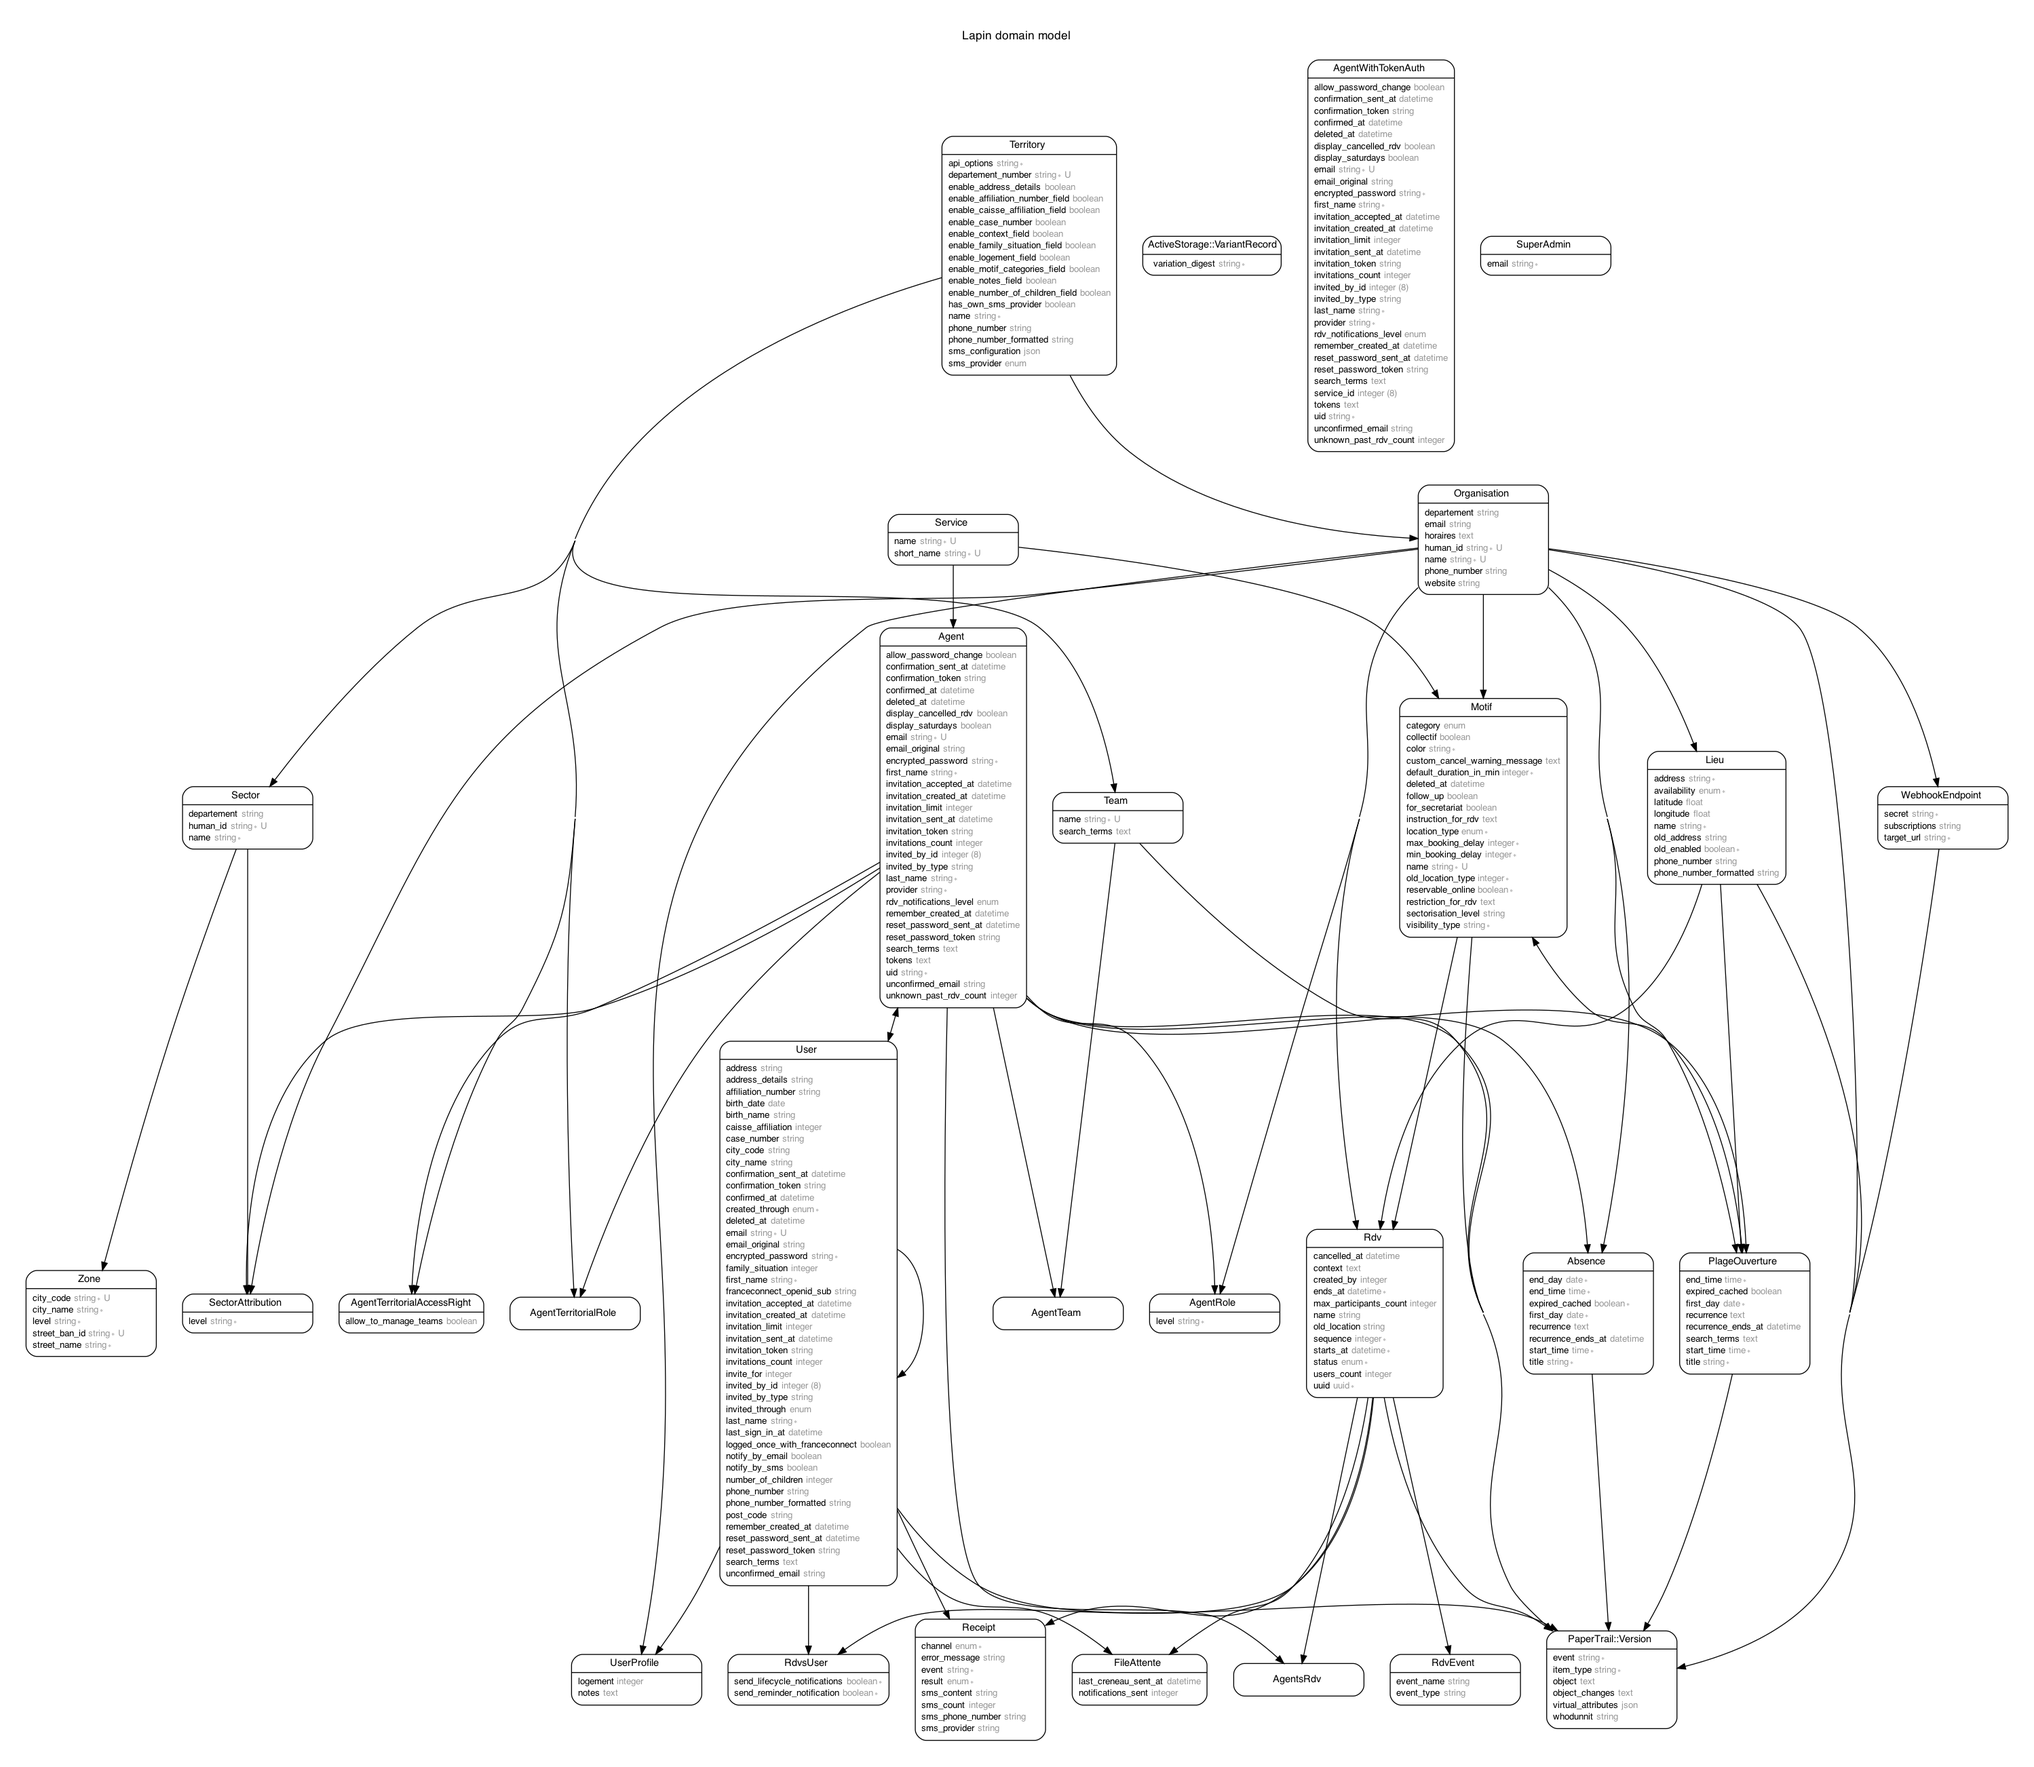
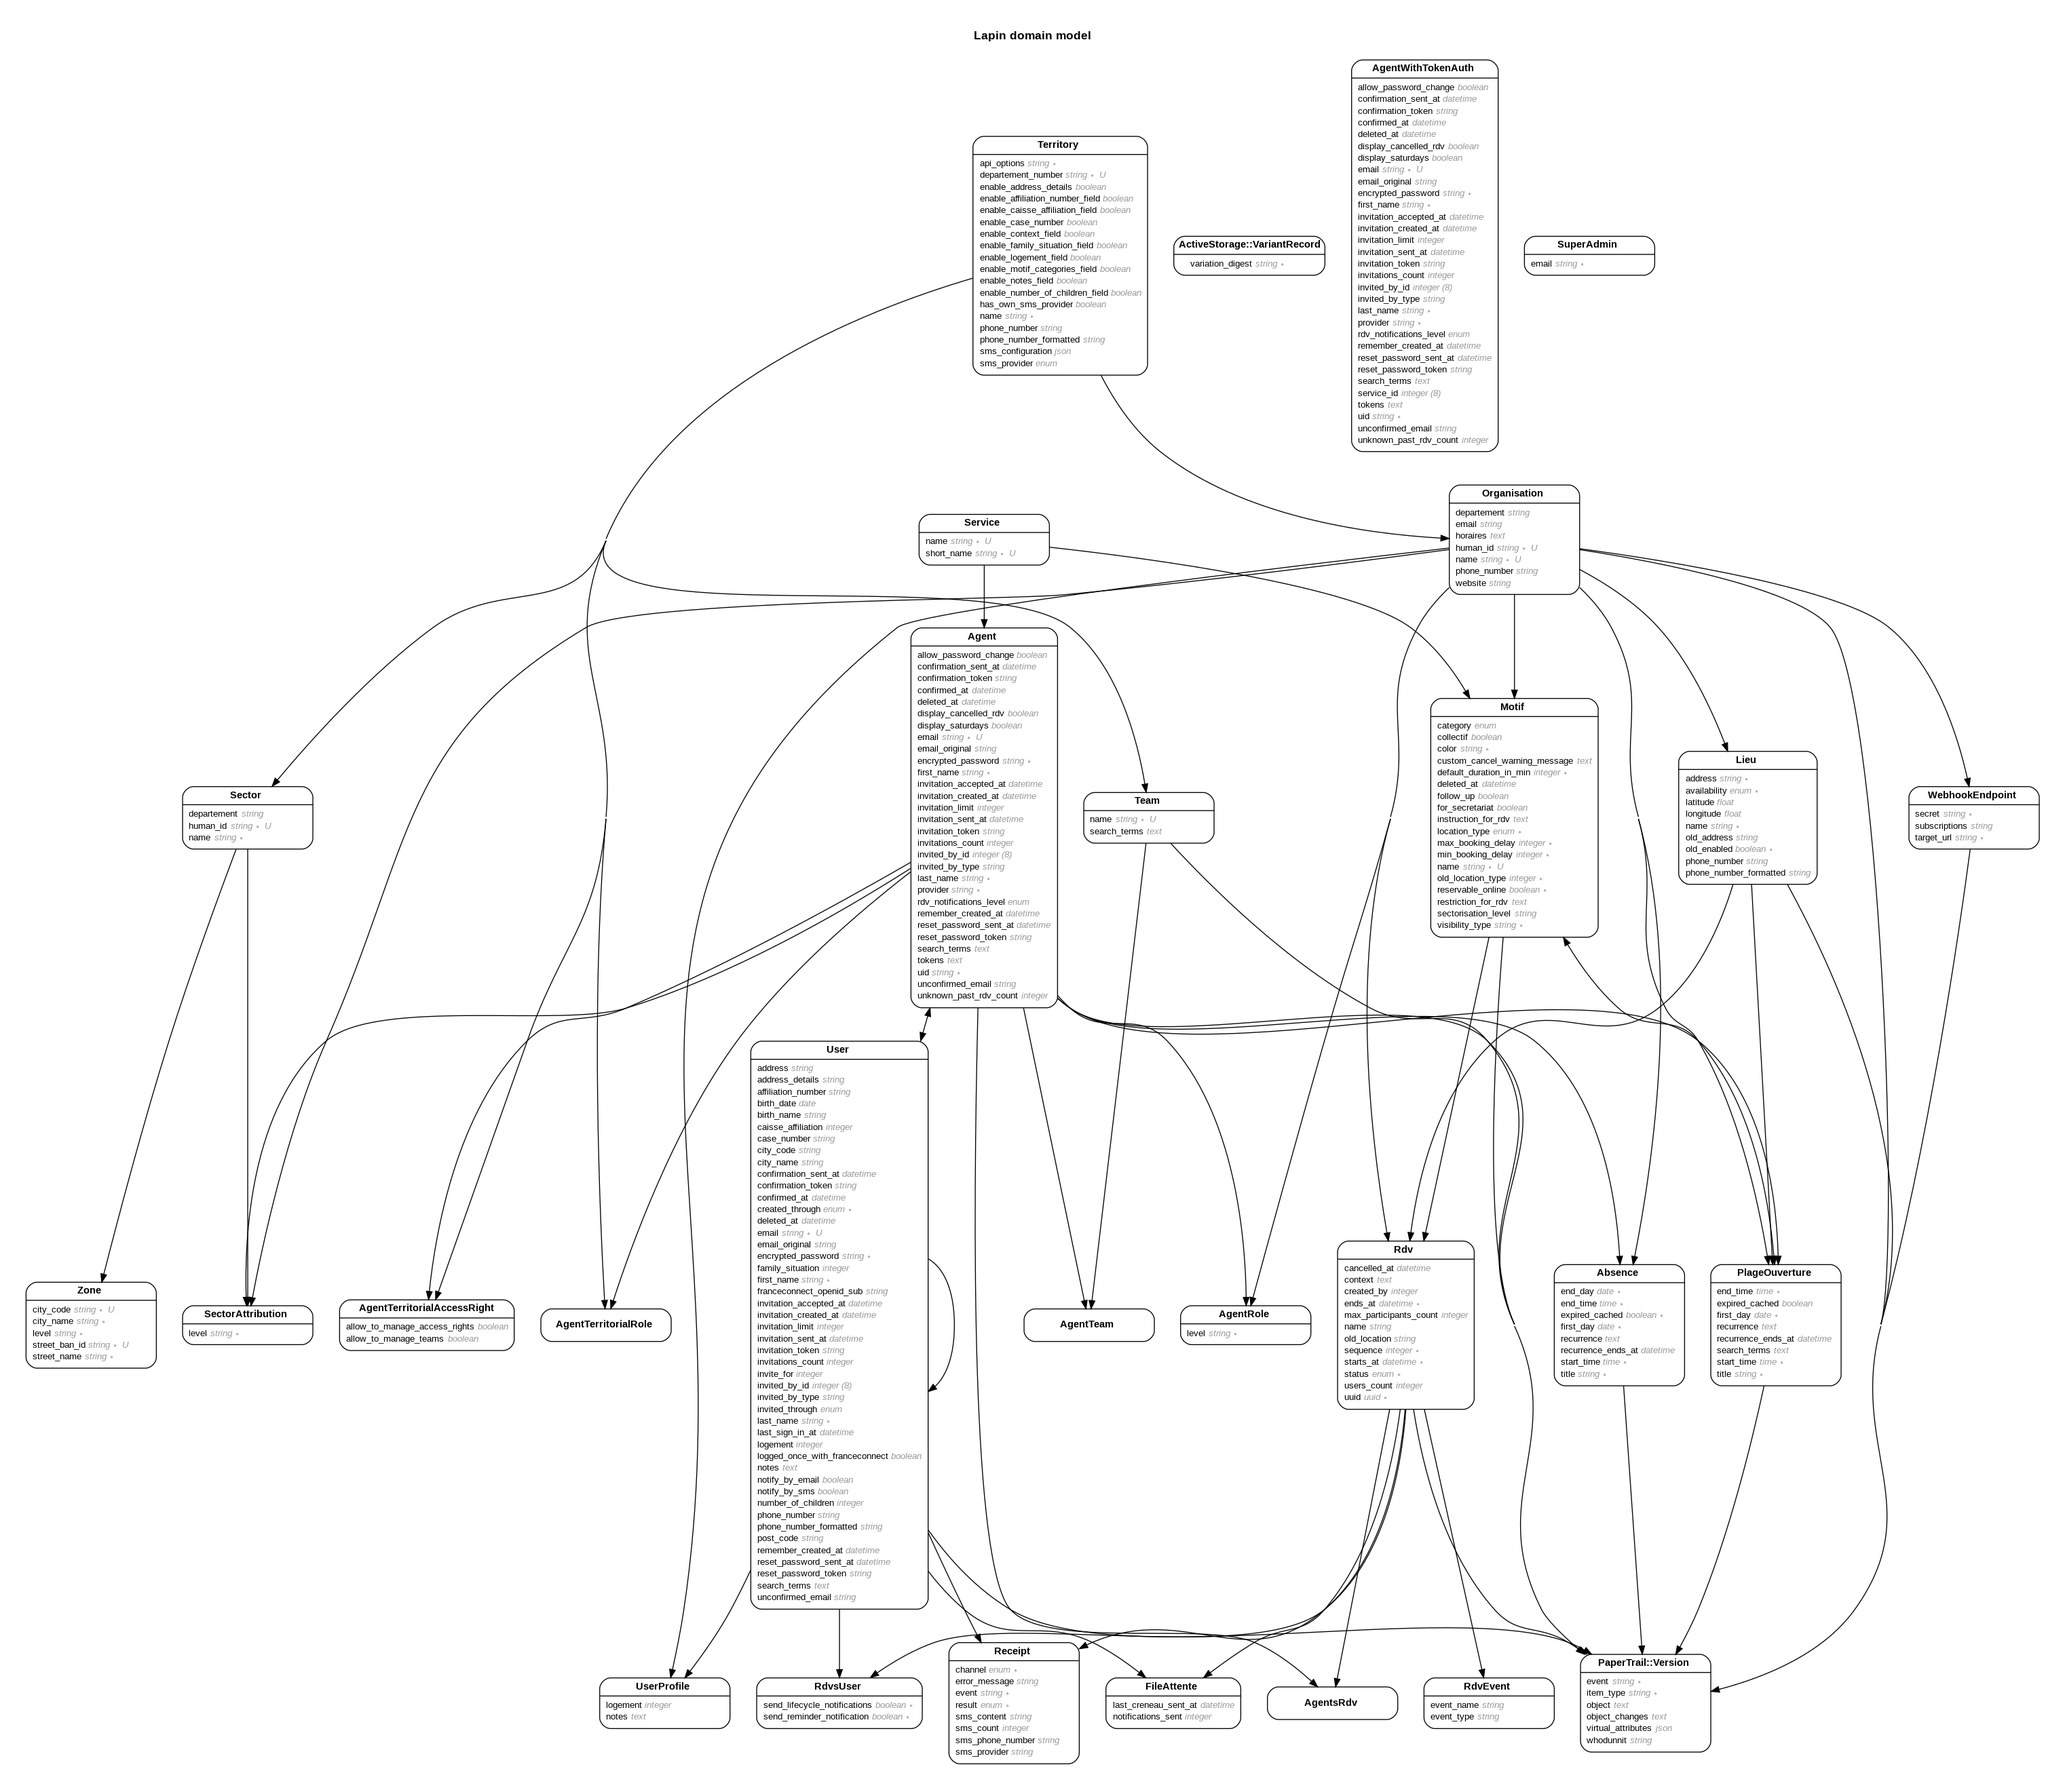
WIP amorce la suppression du user_profile

diff --git a/db/schema.rb b/db/schema.rb
@@ -10,7 +10,7 @@
 #
 # It's strongly recommended that you check this file into your version control system.
 
-ActiveRecord::Schema.define(version: 2022_04_13_081821) do
+ActiveRecord::Schema.define(version: 2022_04_18_204321) do
 
   # These are extensions that must be enabled in order to support this database
   enable_extension "plpgsql"
@@ -163,6 +163,7 @@ ActiveRecord::Schema.define(version: 2022_04_13_081821) do
     t.boolean "allow_to_manage_teams", default: false
     t.datetime "created_at", precision: 6, null: false
     t.datetime "updated_at", precision: 6, null: false
+    t.boolean "allow_to_manage_access_rights", default: false
     t.index ["agent_id"], name: "index_agent_territorial_access_rights_on_agent_id"
     t.index ["territory_id"], name: "index_agent_territorial_access_rights_on_territory_id"
   end
@@ -578,6 +579,8 @@ ActiveRecord::Schema.define(version: 2022_04_13_081821) do
     t.text "search_terms"
     t.string "case_number"
     t.string "address_details"
+    t.text "notes"
+    t.integer "logement"
     t.index "to_tsvector('simple'::regconfig, COALESCE(search_terms, ''::text))", name: "index_users_search_terms", using: :gin
     t.index ["birth_date"], name: "index_users_on_birth_date"
     t.index ["confirmation_token"], name: "index_users_on_confirmation_token", unique: true

diff --git a/app/models/user.rb b/app/models/user.rb
@@ -33,6 +33,7 @@ class User < ApplicationRecord
                           franceconnect_sign_up: "franceconnect_sign_up", user_relative_creation: "user_relative_creation",
                           unknown: "unknown", agent_creation_api: "agent_creation_api" }
   enum invited_through: { devise_email: "devise_email", external: "external" }
+  enum logement: { sdf: 0, heberge: 1, en_accession_propriete: 2, proprietaire: 3, autre: 4, locataire: 5 }
 
   # HACK : add *_sign_in_ip to accessor to bypass recording IPs from Trackable Devise's module
   # HACK : add sign_in_count and current_sign_in_at to accessor to bypass recording IPs from Trackable Devise's module

diff --git a/app/models/territory.rb b/app/models/territory.rb
@@ -56,13 +56,10 @@ class Territory < ApplicationRecord
     enable_family_situation_field: :family_situation,
     enable_number_of_children_field: :number_of_children,
     enable_case_number: :case_number,
-    enable_address_details: :address_details
-  }.freeze
-
-  OPTIONAL_FIELD_TOGGLES = {
+    enable_address_details: :address_details,
     enable_notes_field: :notes,
     enable_logement_field: :logement
-  }.merge(SOCIAL_FIELD_TOGGLES).freeze
+  }.freeze
 
   def any_social_field_enabled?
     attributes.slice(SOCIAL_FIELD_TOGGLES.keys).values.any?

diff --git a/app/helpers/users_helper.rb b/app/helpers/users_helper.rb
@@ -88,10 +88,6 @@ module UsersHelper # rubocop:disable Metrics/ModuleLength
     user.responsible_phone_number.present? ? link_to(user.responsible_phone_number, "tel:#{user.responsible_or_self.phone_number_formatted}") : nil
   end
 
-  def formatted_user_notes(user_profile)
-    user_profile.notes.present? ? simple_format(user_profile.notes) : nil
-  end
-
   def user_soft_delete_confirm_message(user)
     relatives = user.relatives.merge(current_organisation.users).active
     [

diff --git a/app/controllers/admin/users_controller.rb b/app/controllers/admin/users_controller.rb
@@ -14,12 +14,10 @@ class Admin::UsersController < AgentAuthController
     family_situation number_of_children
     notify_by_sms notify_by_email
     case_number address_details
+    logement notes
   ].freeze
 
-  PERMITTED_NESTED_ATTRIBUTES = {
-    agent_ids: [],
-    user_profiles_attributes: %i[notes logement id organisation_id]
-  }.freeze
+  PERMITTED_NESTED_ATTRIBUTES = { agent_ids: [] }.freeze
 
   def index
     @form = Admin::UserSearchForm.new(**index_params)

diff --git a/db/migrate/20220418204321_add_notes_and_logement_to_users.rb b/db/migrate/20220418204321_add_notes_and_logement_to_users.rb
@@ -1,0 +1,14 @@
+class AddNotesAndLogementToUsers < ActiveRecord::Migration[6.1]
+  def change
+    add_column :users, :notes, :text
+    add_column :users, :logement, :integer
+
+    User.find_each do |user|
+      user.user_profiles.each do |profile|
+        user.notes = (user.notes || "") + profile.notes if profile.notes.present?
+        user.logement = profile.logement if profile.logement.present?
+        user.save!
+      end
+    end
+  end
+end

diff --git a/app/services/merge_users_service.rb b/app/services/merge_users_service.rb
@@ -80,10 +80,10 @@ class MergeUsersService < BaseService
   end
 
   def user_attributes_to_merge
-    @attributes_to_merge.without(:logement, :notes)
+    @attributes_to_merge.without(:notes)
   end
 
   def user_profile_attributes_to_merge
-    @attributes_to_merge.select{ %i[logement notes].include?(_1) }
+    @attributes_to_merge.select{ %i[notes].include?(_1) }
   end
 end

diff --git a/app/blueprints/user_profile_blueprint.rb b/app/blueprints/user_profile_blueprint.rb
@@ -5,7 +5,7 @@ class UserProfileBlueprint < Blueprinter::Base
   # * in the API: See Api::V1::BaseController#render_record and #render_collection
   # * in the webhooks: See WebhookDeliverable#generate_webhook_payload
 
-  fields :logement, :notes
+  fields :notes
 
   association :user, blueprint: UserBlueprint
   association :organisation, blueprint: OrganisationBlueprint

diff --git a/app/controllers/users/rdv_wizard_steps_controller.rb b/app/controllers/users/rdv_wizard_steps_controller.rb
@@ -70,7 +70,8 @@ class Users::RdvWizardStepsController < UserAuthController
                     :number_of_children,
                     :notify_by_email,
                     :notify_by_sms,
-                    { user_profiles_attributes: %i[logement id organisation_id] }
+                    :logement,
+                    :notes
                   ])
   end
 end

diff --git a/app/presenters/displayable_user_presenter.rb b/app/presenters/displayable_user_presenter.rb
@@ -48,11 +48,11 @@ class DisplayableUserPresenter
   end
 
   def logement
-    @user_profile&.human_attribute_value(:logement)
+    @user.human_attribute_value(:logement)
   end
 
   def notes
-    formatted_user_notes(@user_profile)
+    user.notes.present ? simple_format(user.notes) : nil
   end
 
   def notify_by_sms

diff --git a/app/form_models/merge_users_form.rb b/app/form_models/merge_users_form.rb
@@ -101,7 +101,7 @@ class MergeUsersForm
   end
 
   def values_for(attribute)
-    if %i[logement notes].include?(attribute)
+    if %i[notes].include?(attribute)
       [user1_profile&.send(attribute), user2_profile&.send(attribute)]
     else
       [user1&.send(attribute), user2&.send(attribute)]

diff --git a/app/controllers/users/users_controller.rb b/app/controllers/users/users_controller.rb
@@ -37,7 +37,8 @@ class Users::UsersController < UserAuthController
       :notify_by_email,
       :notify_by_sms,
       :address_details,
-      user_profiles_attributes: %i[logement id organisation_id]
+      :logement,
+      :notes
     )
   end
 end
